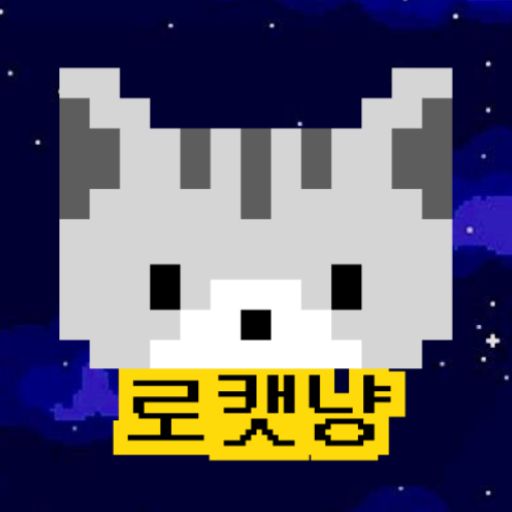
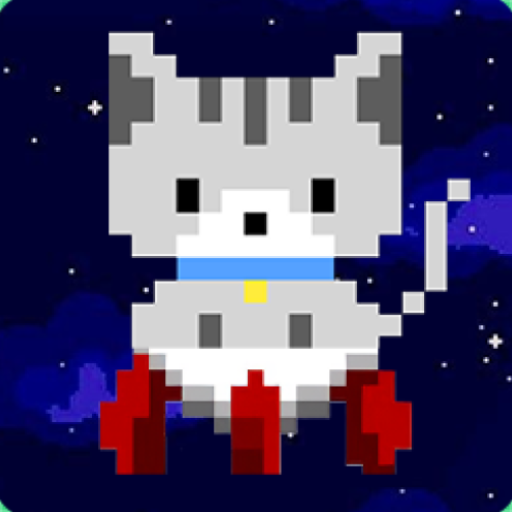
[#S12P11E205-172][FE] Fix: 프론트 공통 함수/이미지 정리, 앱 아이콘 수정

diff --git a/Front/mobile/src/main/java/com/eeos/rocatrun/result/MultiWinScreen.kt b/Front/mobile/src/main/java/com/eeos/rocatrun/result/MultiWinScreen.kt
@@ -43,9 +43,11 @@ import androidx.compose.ui.window.Dialog
 import androidx.compose.ui.window.DialogProperties
 import com.eeos.rocatrun.R
 import com.eeos.rocatrun.game.GamePlay
-import com.eeos.rocatrun.game.GifImage
+import com.eeos.rocatrun.ui.components.GifImage
 import com.eeos.rocatrun.home.HomeActivity
 import kotlinx.coroutines.delay
+import com.eeos.rocatrun.ui.components.formatTime
+import com.eeos.rocatrun.ui.components.formatPace
 
 @Composable
 fun MultiWinScreen(myResult: GamePlay.MyResultData?, myRank: Int, playerResults: List<GamePlay.PlayersResultData?>)
@@ -361,17 +363,17 @@ private fun RankingWinRow(
                 Box(modifier = Modifier.width(24.dp)) {
                     when (rank) {
                         1 -> Image(
-                            painter = painterResource(id = R.drawable.game_img_goldpaw),
+                            painter = painterResource(id = R.drawable.all_img_goldpaw),
                             contentDescription = null,
                             modifier = Modifier.size(24.dp)
                         )
                         2 -> if (totalParticipants >= 2) Image(
-                            painter = painterResource(id = R.drawable.game_img_silverpaw),
+                            painter = painterResource(id = R.drawable.all_img_silverpaw),
                             contentDescription = null,
                             modifier = Modifier.size(24.dp)
                         )
                         3 -> if (totalParticipants >= 3) Image(
-                            painter = painterResource(id = R.drawable.game_img_bronzepaw),
+                            painter = painterResource(id = R.drawable.all_img_bronzepaw),
                             contentDescription = null,
                             modifier = Modifier.size(24.dp)
                         )
@@ -414,21 +416,6 @@ private fun RankingWinRow(
             )
         }
     }
-}
-
-// 시간 포맷팅 함수
-private fun formatTime(timeInMillis: Long): String {
-    val hours = timeInMillis / (1000 * 60 * 60)
-    val minutes = (timeInMillis % (1000 * 60 * 60)) / (1000 * 60)
-    val seconds = (timeInMillis % (1000 * 60)) / 1000
-    return String.format("%02d:%02d:%02d", hours, minutes, seconds)
-}
-
-// 페이스 포맷팅 함수
-private fun formatPace(paceInMinutesPerKm: Double): String {
-    val minutes = paceInMinutesPerKm.toInt()
-    val seconds = ((paceInMinutesPerKm - minutes) * 60).toInt()
-    return String.format("%02d'%02d\"", minutes, seconds)
 }
 
 // 이미지 리소스 ID를 가져오는 함수

diff --git a/Front/mobile/src/main/java/com/eeos/rocatrun/game/GameplayScreen.kt b/Front/mobile/src/main/java/com/eeos/rocatrun/game/GameplayScreen.kt
@@ -32,11 +32,7 @@ import androidx.compose.ui.res.painterResource
 import androidx.compose.ui.text.style.TextAlign
 import androidx.compose.ui.unit.dp
 import androidx.compose.ui.unit.sp
-import coil3.compose.rememberAsyncImagePainter
-import coil3.request.ImageRequest
-import coil3.request.crossfade
 import com.eeos.rocatrun.R
-import com.eeos.rocatrun.game.GamePlay.PlayersData
 import com.eeos.rocatrun.home.HomeActivity
 import com.eeos.rocatrun.result.MultiLoseScreen
 import com.eeos.rocatrun.result.MultiWinScreen
@@ -46,6 +42,7 @@ import com.eeos.rocatrun.socket.SocketHandler
 import com.google.android.gms.wearable.PutDataMapRequest
 import com.google.android.gms.wearable.Wearable
 import org.json.JSONObject
+import com.eeos.rocatrun.ui.components.GifImage
 
 
 @Composable
@@ -418,23 +415,4 @@ fun GameplayScreen(gpxFileReceived: Boolean, onShareClick: () -> Unit) {
             SingleLoseScreen(myResult = myResult)
         }
     }
-}
-
-// gif 불러오는 함수
-@Composable
-fun GifImage(modifier: Modifier = Modifier, gifUrl: String) {
-
-    val painter = rememberAsyncImagePainter(
-        model = ImageRequest.Builder(LocalContext.current)
-            .data(gifUrl)
-            .crossfade(false)
-            .build()
-    )
-
-    Image(
-        painter = painter,
-        contentDescription = "GIF Image",
-        modifier = modifier,
-        contentScale = ContentScale.Crop
-    )
 }

diff --git a/Front/mobile/src/main/java/com/eeos/rocatrun/result/MultiLoseScreen.kt b/Front/mobile/src/main/java/com/eeos/rocatrun/result/MultiLoseScreen.kt
@@ -45,9 +45,11 @@ import androidx.compose.ui.window.Dialog
 import androidx.compose.ui.window.DialogProperties
 import com.eeos.rocatrun.R
 import com.eeos.rocatrun.game.GamePlay
-import com.eeos.rocatrun.game.GifImage
 import com.eeos.rocatrun.home.HomeActivity
 import kotlinx.coroutines.delay
+import com.eeos.rocatrun.ui.components.GifImage
+import com.eeos.rocatrun.ui.components.formatTime
+import com.eeos.rocatrun.ui.components.formatPace
 
 @Composable
 fun MultiLoseScreen(myResult: GamePlay.MyResultData?, myRank: Int, playerResults: List<GamePlay.PlayersResultData?>)
@@ -396,21 +398,6 @@ private fun RankingLoseRow(
             )
         }
     }
-}
-
-// 시간 포맷팅 함수
-private fun formatTime(timeInMillis: Long): String {
-    val hours = timeInMillis / (1000 * 60 * 60)
-    val minutes = (timeInMillis % (1000 * 60 * 60)) / (1000 * 60)
-    val seconds = (timeInMillis % (1000 * 60)) / 1000
-    return String.format("%02d:%02d:%02d", hours, minutes, seconds)
-}
-
-// 페이스 포맷팅 함수
-private fun formatPace(paceInMinutesPerKm: Double): String {
-    val minutes = paceInMinutesPerKm.toInt()
-    val seconds = ((paceInMinutesPerKm - minutes) * 60).toInt()
-    return String.format("%02d'%02d\"", minutes, seconds)
 }
 
 // 이미지 리소스 ID를 가져오는 함수

diff --git a/Front/mobile/src/main/java/com/eeos/rocatrun/result/SingleWinScreen.kt b/Front/mobile/src/main/java/com/eeos/rocatrun/result/SingleWinScreen.kt
@@ -36,9 +36,11 @@ import androidx.compose.ui.window.Dialog
 import androidx.compose.ui.window.DialogProperties
 import com.eeos.rocatrun.R
 import com.eeos.rocatrun.game.GamePlay
-import com.eeos.rocatrun.game.GifImage
+import com.eeos.rocatrun.ui.components.GifImage
 import com.eeos.rocatrun.home.HomeActivity
 import kotlinx.coroutines.delay
+import com.eeos.rocatrun.ui.components.formatPace
+import com.eeos.rocatrun.ui.components.formatTime
 
 
 @Composable
@@ -225,17 +227,3 @@ private fun ResultRow(label: String, value: String) {
     }
 }
 
-// 시간 포맷팅 함수
-private fun formatTime(timeInMillis: Long): String {
-    val hours = timeInMillis / (1000 * 60 * 60)
-    val minutes = (timeInMillis % (1000 * 60 * 60)) / (1000 * 60)
-    val seconds = (timeInMillis % (1000 * 60)) / 1000
-    return String.format("%02d:%02d:%02d", hours, minutes, seconds)
-}
-
-// 페이스 포맷팅 함수
-private fun formatPace(paceInMinutesPerKm: Double): String {
-    val minutes = paceInMinutesPerKm.toInt()
-    val seconds = ((paceInMinutesPerKm - minutes) * 60).toInt()
-    return String.format("%02d'%02d\"", minutes, seconds)
-}

diff --git a/Front/mobile/src/main/java/com/eeos/rocatrun/result/SingleLoseScreen.kt b/Front/mobile/src/main/java/com/eeos/rocatrun/result/SingleLoseScreen.kt
@@ -37,8 +37,10 @@ import androidx.compose.ui.window.Dialog
 import androidx.compose.ui.window.DialogProperties
 import com.eeos.rocatrun.R
 import com.eeos.rocatrun.game.GamePlay
-import com.eeos.rocatrun.game.GifImage
+import com.eeos.rocatrun.ui.components.GifImage
 import com.eeos.rocatrun.home.HomeActivity
+import com.eeos.rocatrun.ui.components.formatPace
+import com.eeos.rocatrun.ui.components.formatTime
 import kotlinx.coroutines.delay
 
 @Composable
@@ -227,17 +229,3 @@ private fun ResultRow(label: String, value: String) {
     }
 }
 
-// 시간 포맷팅 함수
-private fun formatTime(timeInMillis: Long): String {
-    val hours = timeInMillis / (1000 * 60 * 60)
-    val minutes = (timeInMillis % (1000 * 60 * 60)) / (1000 * 60)
-    val seconds = (timeInMillis % (1000 * 60)) / 1000
-    return String.format("%02d:%02d:%02d", hours, minutes, seconds)
-}
-
-// 페이스 포맷팅 함수
-private fun formatPace(paceInMinutesPerKm: Double): String {
-    val minutes = paceInMinutesPerKm.toInt()
-    val seconds = ((paceInMinutesPerKm - minutes) * 60).toInt()
-    return String.format("%02d'%02d\"", minutes, seconds)
-}

diff --git a/Front/mobile/src/main/java/com/eeos/rocatrun/stats/DayStatsScreen.kt b/Front/mobile/src/main/java/com/eeos/rocatrun/stats/DayStatsScreen.kt
@@ -193,9 +193,9 @@ fun DayStatCard(
                         verticalAlignment = Alignment.CenterVertically
                     ) {
                         val rankImage = when (player.rank) {
-                            1 -> R.drawable.stats_img_first
-                            2 -> R.drawable.stats_img_second
-                            3 -> R.drawable.stats_img_third
+                            1 -> R.drawable.all_img_goldpaw
+                            2 -> R.drawable.all_img_silverpaw
+                            3 -> R.drawable.all_img_bronzepaw
                             else -> null
                         }
 

diff --git a/Front/mobile/src/main/java/com/eeos/rocatrun/ui/components/format.kt b/Front/mobile/src/main/java/com/eeos/rocatrun/ui/components/format.kt
@@ -1,0 +1,16 @@
+package com.eeos.rocatrun.ui.components
+
+// 시간 포맷팅 함수
+fun formatTime(timeInMillis: Long): String {
+    val hours = timeInMillis / (1000 * 60 * 60)
+    val minutes = (timeInMillis % (1000 * 60 * 60)) / (1000 * 60)
+    val seconds = (timeInMillis % (1000 * 60)) / 1000
+    return String.format("%02d:%02d:%02d", hours, minutes, seconds)
+}
+
+// 페이스 포맷팅 함수
+fun formatPace(paceInMinutesPerKm: Double): String {
+    val minutes = paceInMinutesPerKm.toInt()
+    val seconds = ((paceInMinutesPerKm - minutes) * 60).toInt()
+    return String.format("%02d'%02d\"", minutes, seconds)
+}

diff --git a/Front/mobile/src/main/java/com/eeos/rocatrun/ranking/api/RankingViewModel.kt b/Front/mobile/src/main/java/com/eeos/rocatrun/ranking/api/RankingViewModel.kt
@@ -4,10 +4,10 @@ import android.util.Log
 import androidx.lifecycle.LiveData
 import androidx.lifecycle.MutableLiveData
 import androidx.lifecycle.ViewModel
-import com.eeos.rocatrun.home.api.RetrofitInstance
 import retrofit2.Call
 import retrofit2.Callback
 import retrofit2.Response
+import com.eeos.rocatrun.api.RetrofitInstance
 
 class RankingViewModel : ViewModel() {
     private val _rankingData = MutableLiveData<RankingResponse>()

diff --git a/Front/mobile/src/main/java/com/eeos/rocatrun/profile/api/ProfileViewModel.kt b/Front/mobile/src/main/java/com/eeos/rocatrun/profile/api/ProfileViewModel.kt
@@ -5,7 +5,7 @@ import androidx.compose.ui.platform.LocalContext
 import androidx.lifecycle.LiveData
 import androidx.lifecycle.MutableLiveData
 import androidx.lifecycle.ViewModel
-import com.eeos.rocatrun.login.data.TokenStorage
+import com.eeos.rocatrun.api.RetrofitInstance
 import retrofit2.Call
 import retrofit2.Callback
 import retrofit2.Response

diff --git a/Front/mobile/src/main/java/com/eeos/rocatrun/closet/api/ClosetViewModel.kt b/Front/mobile/src/main/java/com/eeos/rocatrun/closet/api/ClosetViewModel.kt
@@ -10,6 +10,7 @@ import okhttp3.MediaType.Companion.toMediaTypeOrNull
 import okhttp3.MultipartBody
 import okhttp3.RequestBody.Companion.asRequestBody
 import java.io.File
+import com.eeos.rocatrun.api.RetrofitInstance
 
 class ClosetViewModel : ViewModel() {
     // 전송 완료 응답 데이터

diff --git a/Front/mobile/src/main/java/com/eeos/rocatrun/stats/api/StatsViewModel.kt b/Front/mobile/src/main/java/com/eeos/rocatrun/stats/api/StatsViewModel.kt
@@ -10,6 +10,7 @@ import androidx.lifecycle.ViewModel
 import retrofit2.Call
 import retrofit2.Callback
 import retrofit2.Response
+import com.eeos.rocatrun.api.RetrofitInstance
 
 class StatsViewModel : ViewModel() {
     // 로딩 상태 관리

diff --git a/Front/mobile/src/main/java/com/eeos/rocatrun/home/api/HomeViewModel.kt b/Front/mobile/src/main/java/com/eeos/rocatrun/home/api/HomeViewModel.kt
@@ -7,6 +7,7 @@ import androidx.lifecycle.ViewModel
 import retrofit2.Call
 import retrofit2.Callback
 import retrofit2.Response
+import com.eeos.rocatrun.api.RetrofitInstance
 
 
 class HomeViewModel : ViewModel() {
